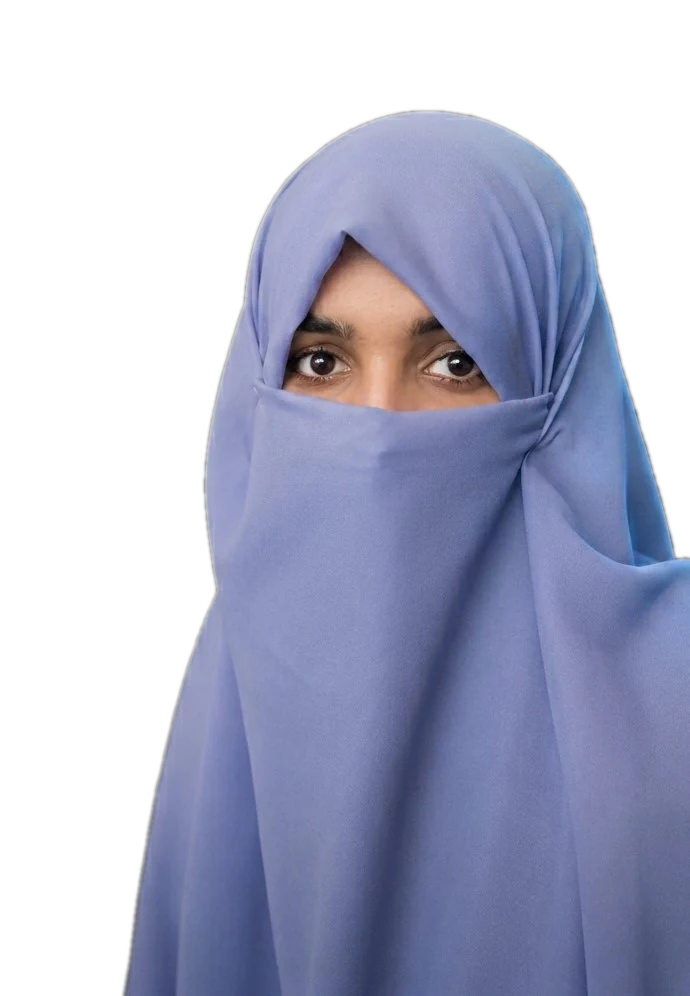
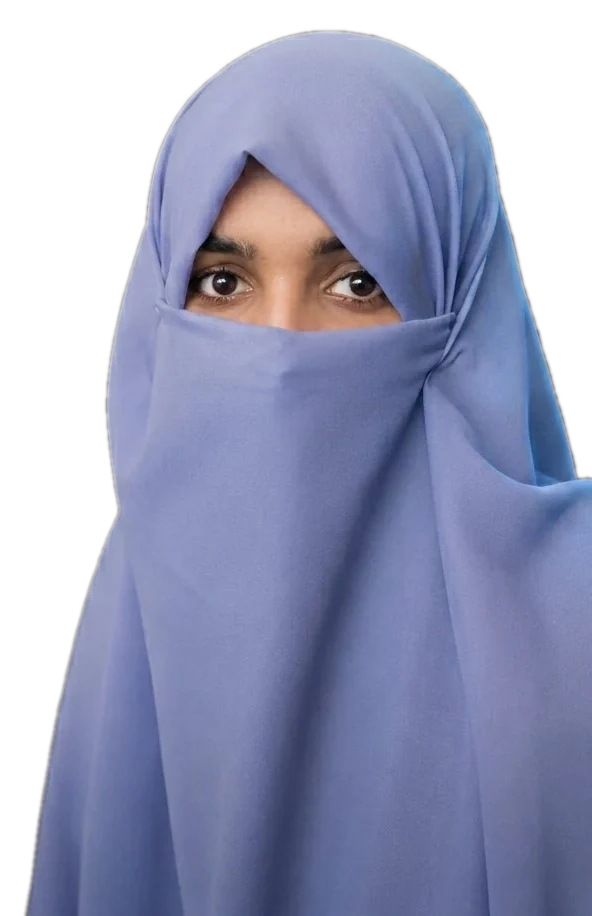
style(hero): crop portrait margins and enlarge it within the hero
Trim transparent padding from the cut-out, rescale the stack pills and wires to the new box, and give the hero slightly more height.

diff --git a/index.html b/index.html
@@ -246,6 +246,24 @@ button.node[aria-pressed=true] i,button.node:hover i{background:#0B1708;box-shad
 .gc.hit{border-color:var(--lime);box-shadow:0 0 0 1px var(--lime),0 20px 60px -20px rgba(214,242,58,.35)}
 @media (max-width:1000px){.cut{width:min(480px,100%)}}
 </style>
+<style>
+/* hero sized to the screen so the portrait, name and buttons all fit on the first view */
+.hero2{display:flex;align-items:center;height:calc(100vh - 34px);height:calc(100svh - 34px);min-height:520px;max-height:900px;padding-top:0;padding-bottom:0}
+.hero-copy{padding-bottom:0;max-width:640px}
+.hero2 .giant{font-size:clamp(2.4rem,min(7.4vw,12.5vh),7rem);margin-top:14px}
+.hero2 .role{font-size:clamp(1.9rem,min(5.2vw,8.4vh),4.6rem)}
+.hero2 .lead{font-size:clamp(16px,2.3vh,18px);margin-top:12px}
+.hero2 .cta{margin-top:clamp(16px,3vh,26px)}
+.hero2 .status{margin-bottom:0}
+.cut{width:auto;height:96%;aspect-ratio:592/916;right:0;bottom:0}
+.cut img{width:100%;height:100%;object-fit:contain;object-position:bottom}
+@media (max-width:1000px){
+  .hero2{display:block;height:auto;min-height:0;max-height:none;padding-top:34px}
+  .hero-copy{max-width:none;padding-bottom:24px}
+  .cut{position:relative;width:min(480px,100%);height:auto;aspect-ratio:auto;margin:0 auto}
+  .cut img{height:auto}
+}
+</style>
 </head>
 <body id="top">
 <a class="skip" href="#work">Skip to projects</a>
@@ -266,13 +284,13 @@ button.node[aria-pressed=true] i,button.node:hover i{background:#0B1708;box-shad
     <div class="cta"><a class="btn hot" href="#work">See my work</a><a class="btn ghost" href="resume.pdf" download>Download resume</a></div>
   </div>
   <div class="cut">
-    <svg class="orbit" viewBox="0 0 600 866" aria-hidden="true"><g class="wires" fill="none"><path id="p1" d="M60 156C150 170 230 230 300 300"/><path id="p2" d="M24 364C130 360 220 330 300 300"/><path id="p3" d="M60 572C150 520 240 400 300 300"/><path id="p4" d="M504 104C440 150 360 220 300 300"/><path id="p5" d="M552 312C470 320 380 310 300 300"/></g><g fill="#D6F23A"><circle r="4.5"><animateMotion dur="3.6s" begin="0s" repeatCount="indefinite"><mpath href="#p1"/></animateMotion></circle><circle r="4.5"><animateMotion dur="3.1s" begin="0.7s" repeatCount="indefinite"><mpath href="#p2"/></animateMotion></circle><circle r="4.5"><animateMotion dur="4.0s" begin="1.2s" repeatCount="indefinite"><mpath href="#p3"/></animateMotion></circle><circle r="4.5"><animateMotion dur="3.4s" begin="0.3s" repeatCount="indefinite"><mpath href="#p4"/></animateMotion></circle><circle r="4.5"><animateMotion dur="2.9s" begin="1.6s" repeatCount="indefinite"><mpath href="#p5"/></animateMotion></circle></g></svg>
-    <button class="node" type="button" data-tech="react" aria-pressed="false" style="left:10%;top:18%;animation-delay:-0.0s"><i></i>React</button>
-    <button class="node" type="button" data-tech="fastapi" aria-pressed="false" style="left:4%;top:42%;animation-delay:-1.1s"><i></i>FastAPI</button>
-    <button class="node" type="button" data-tech="vercel" aria-pressed="false" style="left:10%;top:66%;animation-delay:-2.2s"><i></i>Vercel</button>
-    <button class="node" type="button" data-tech="llm" aria-pressed="false" style="left:84%;top:12%;animation-delay:-3.3s"><i></i>LLM APIs</button>
-    <button class="node" type="button" data-tech="mongodb" aria-pressed="false" style="left:92%;top:36%;animation-delay:-4.4s"><i></i>MongoDB</button>
-    <img src="assets/profile-photo.webp" alt="Portrait of Asma Shahzadi" width="690" height="996">
+    <svg class="orbit" viewBox="0 0 600 928" aria-hidden="true"><g class="wires" fill="none"><path id="p1" d="M-29 101C76 117 169 187 250 269"/><path id="p2" d="M-71 343C52 339 157 304 250 269"/><path id="p3" d="M-29 586C76 525 180 385 250 269"/><path id="p4" d="M488 40C414 94 320 175 250 269"/><path id="p5" d="M544 283C448 292 344 280 250 269"/></g><g fill="#D6F23A"><circle r="4.5"><animateMotion dur="3.6s" begin="0s" repeatCount="indefinite"><mpath href="#p1"/></animateMotion></circle><circle r="4.5"><animateMotion dur="3.1s" begin="0.7s" repeatCount="indefinite"><mpath href="#p2"/></animateMotion></circle><circle r="4.5"><animateMotion dur="4.0s" begin="1.2s" repeatCount="indefinite"><mpath href="#p3"/></animateMotion></circle><circle r="4.5"><animateMotion dur="3.4s" begin="0.3s" repeatCount="indefinite"><mpath href="#p4"/></animateMotion></circle><circle r="4.5"><animateMotion dur="2.9s" begin="1.6s" repeatCount="indefinite"><mpath href="#p5"/></animateMotion></circle></g></svg>
+    <button class="node" type="button" data-tech="react" aria-pressed="false" style="left:-4.9%;top:10.8%;animation-delay:-0.0s"><i></i>React</button>
+    <button class="node" type="button" data-tech="fastapi" aria-pressed="false" style="left:-11.9%;top:36.9%;animation-delay:-1.1s"><i></i>FastAPI</button>
+    <button class="node" type="button" data-tech="vercel" aria-pressed="false" style="left:-4.9%;top:63.0%;animation-delay:-2.2s"><i></i>Vercel</button>
+    <button class="node" type="button" data-tech="llm" aria-pressed="false" style="left:81.4%;top:4.3%;animation-delay:-3.3s"><i></i>LLM APIs</button>
+    <button class="node" type="button" data-tech="mongodb" aria-pressed="false" style="left:90.7%;top:30.4%;animation-delay:-4.4s"><i></i>MongoDB</button>
+    <img src="assets/profile-photo.webp" alt="Portrait of Asma Shahzadi" width="592" height="916">
   </div>
 </div>
 
